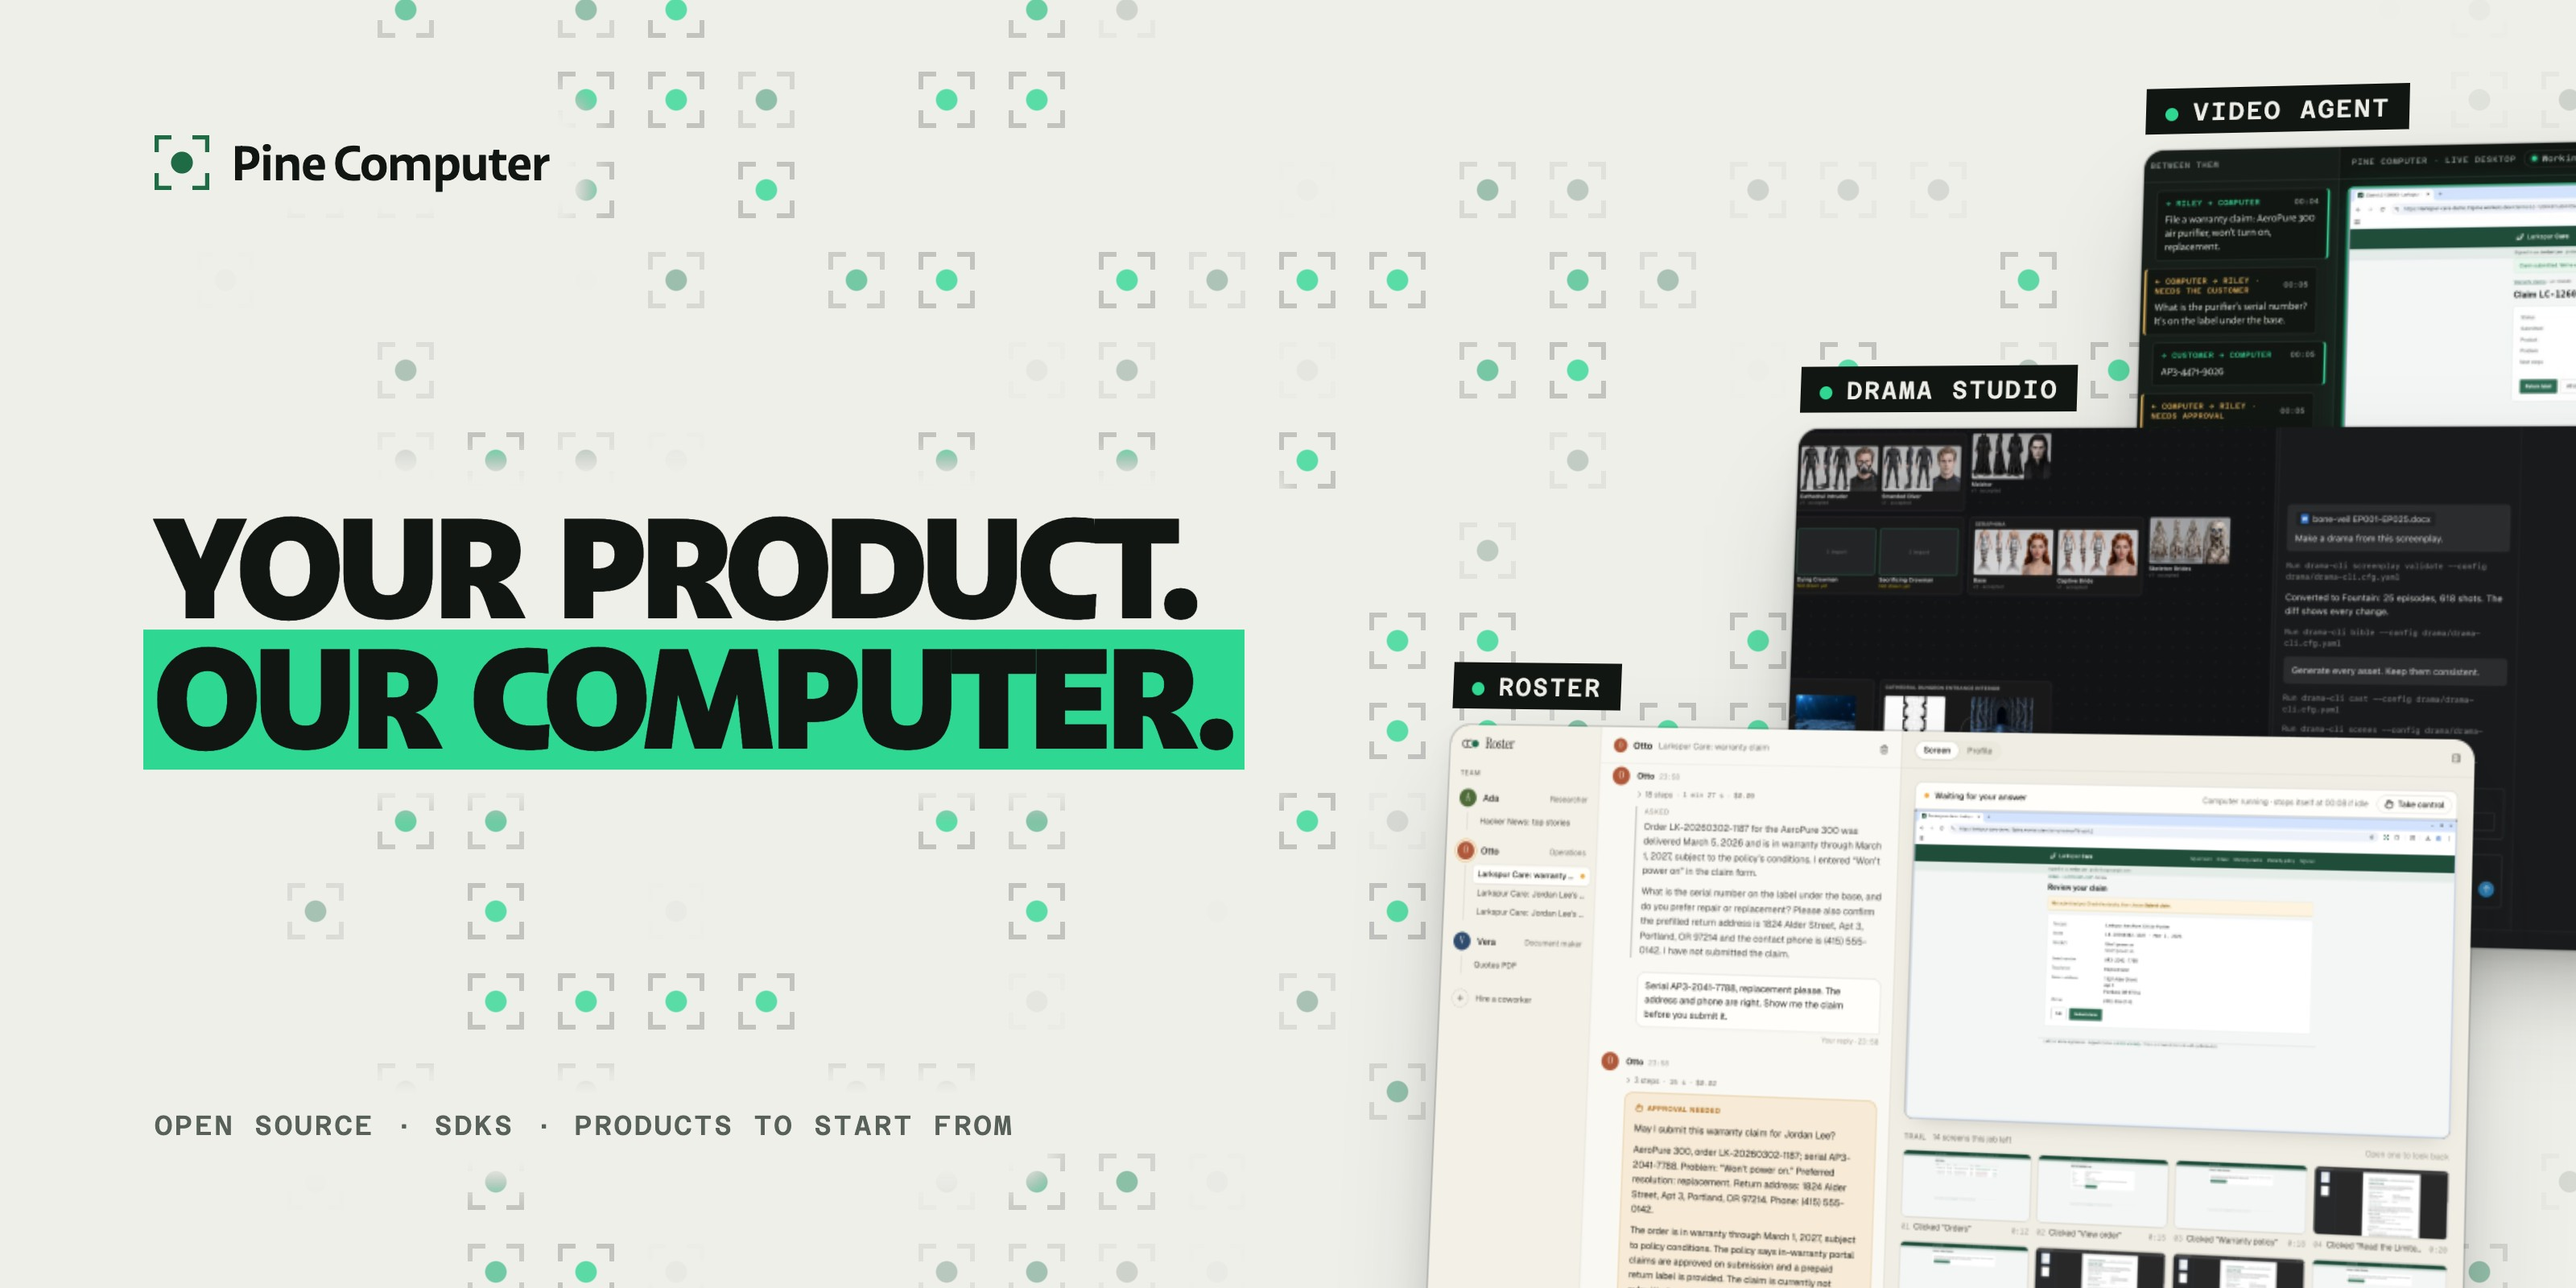
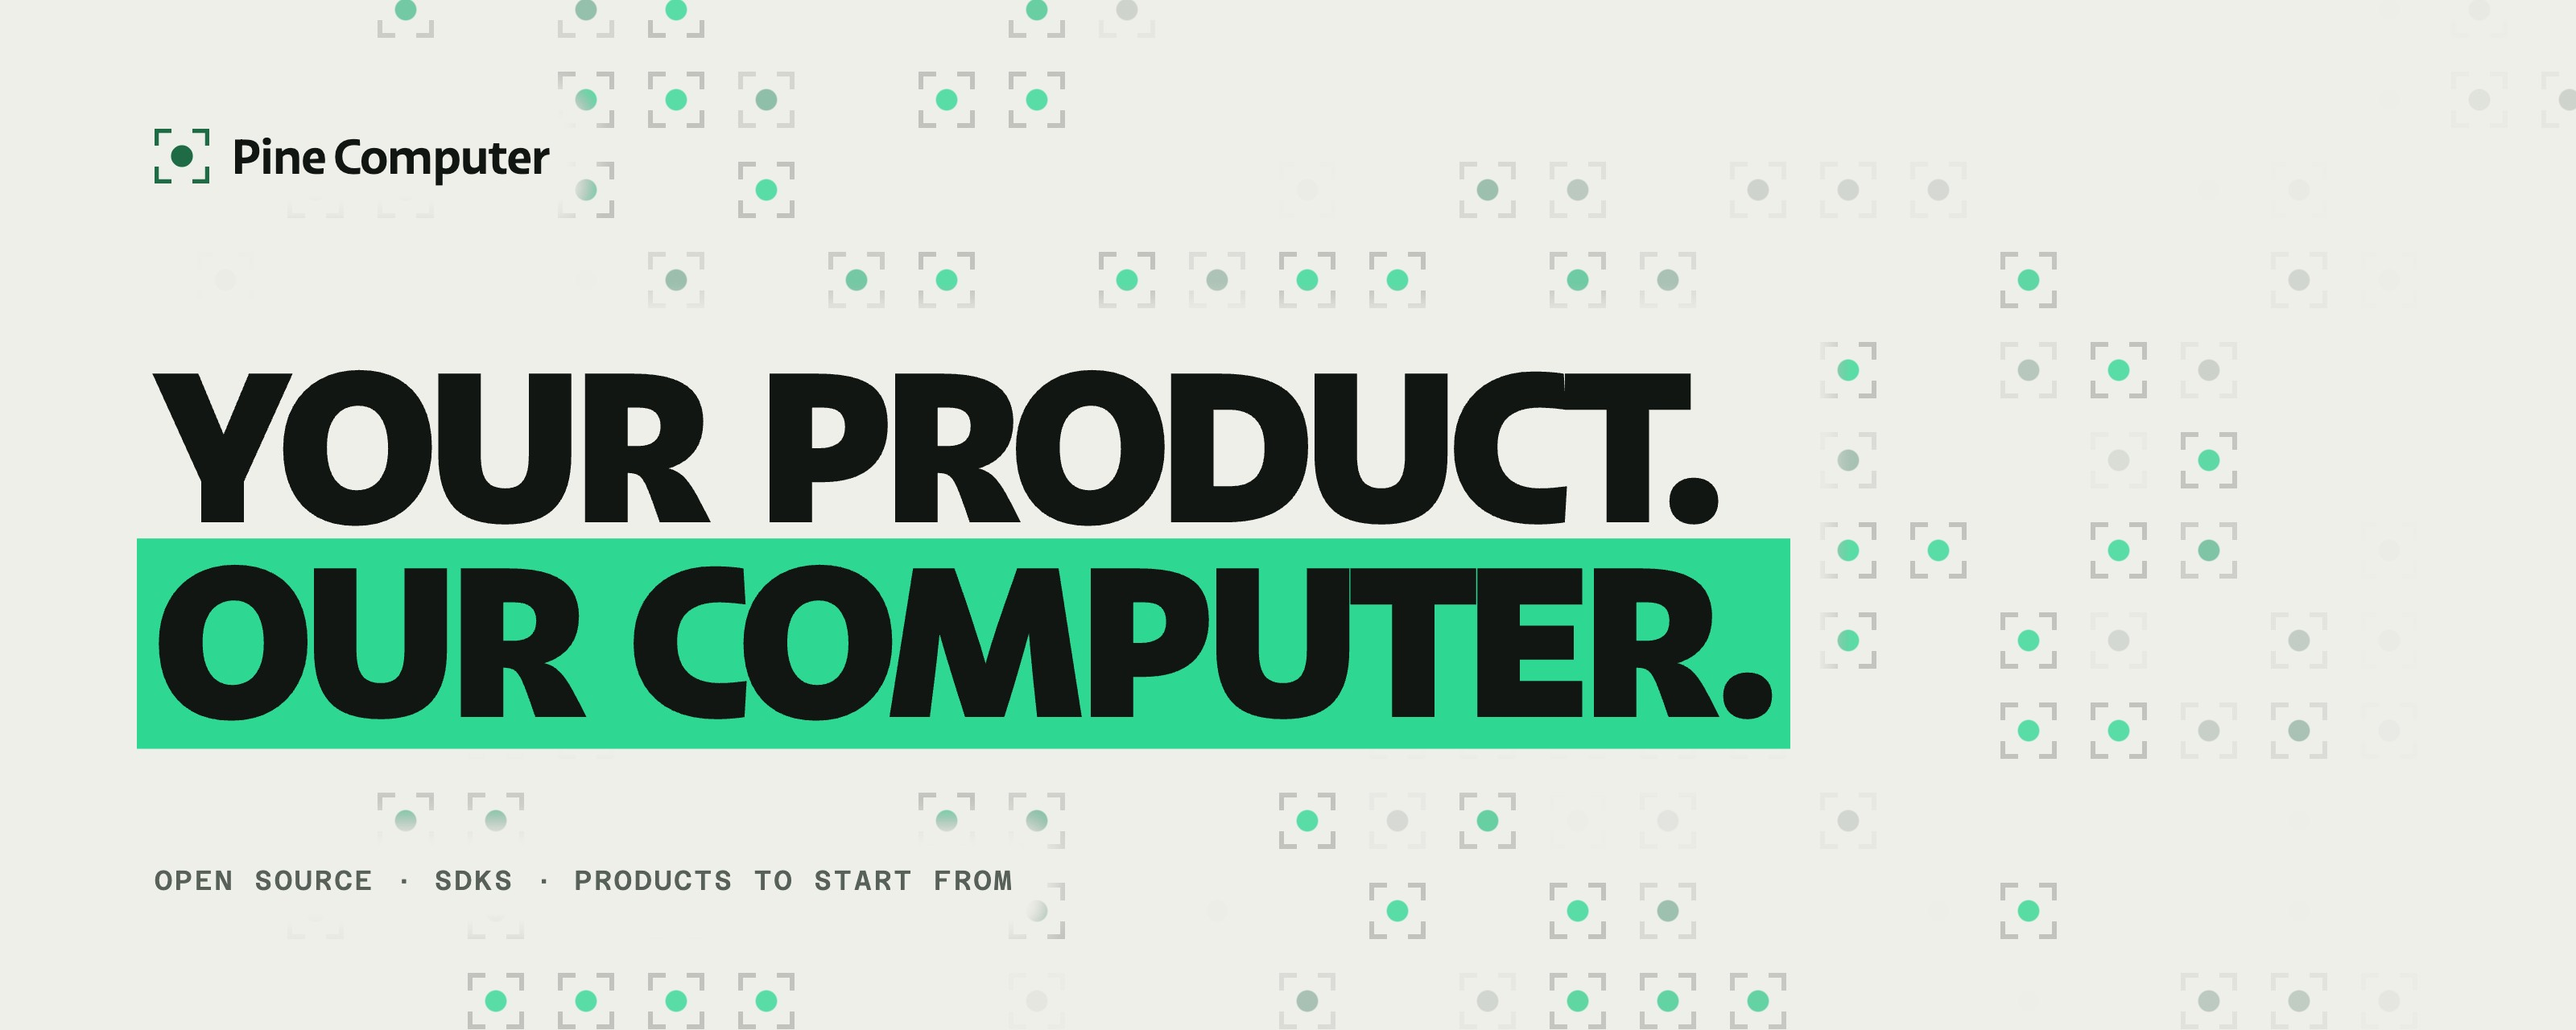
docs: simplify the cover and stop leading with the Tavus example
The cover of tilted product windows read as clutter. It is now the lockup and the line on the brand's field, like the X header. The video agent moves to the end of the products list and its still leaves the examples index, so no single example stands for the repository.

diff --git a/README.md b/README.md
@@ -33,7 +33,7 @@
 
 <p align="center">
   <a href="#built-on-pine-computer">
-    <img src="docs/brand/cover.jpg" alt="Your product. Our computer. Three products built on Pine Computer: Roster, Drama Studio and a video agent" width="100%">
+    <img src="docs/brand/cover.jpg" alt="Pine Computer. Your product. Our computer. Open source: SDKs and products to start from" width="100%">
   </a>
 </p>
 
@@ -157,7 +157,7 @@ repository works with the SDK's `0.3` line: `@pinesandbox/computer` 0.3.5 or new
 
 ## Built on Pine Computer
 
-A workspace of AI coworkers, a personal agent, a studio, a video agent that files the claim while it talks:
+A workspace of AI coworkers, a personal agent, a studio for short dramas, a video agent:
 each is a face on a computer, and the computer is the hard half. These are whole products with their own
 model, logic and interface, open source, on the same Computer. Clone one, rename it, ship it.
 
@@ -165,8 +165,8 @@ model, logic and interface, open source, on the same Computer. Clone one, rename
 | --- | --- |
 | [**Starter**](examples/starter/) | A complete product to rename and ship: sessions side by side, the work live, the controls, skills, a vault, files in and out, schedules. Start here. |
 | [**Roster**](examples/coworkers/) | A workspace of AI coworkers, each with a Computer of its own: give one a job in its thread, watch its screen beside the chat, approve when it asks. A coding agent had it working, from the starter, in 39 minutes, and a second pass of 43 gave it its look and its skills; [the log](examples/coworkers/docs/BUILD-LOG.md) has every step. |
-| [**Tavus video agent**](examples/tavus-video-agent/) | A video agent takes a customer's call and hands the claim to a Pine Computer, which files it while they talk. |
 | [**Drama Studio**](https://github.com/PineComputer/pine-drama-studio) | A desktop studio for AI short dramas: bring a screenplay, and an agent on a Pine Computer makes the drama with you, from characters and storyboards to takes and the cut. |
+| [**Tavus video agent**](examples/tavus-video-agent/) | A video agent takes a customer's call and hands the claim to a Pine Computer, which files it while they talk. |
 
 <p align="center">
   <img src="examples/coworkers/docs/approval.png" alt="Roster: three coworkers and their threads on the left; a conversation in which one asks whether it may submit a warranty claim, with Approve and Decline; and on the right its live desktop with the trail of screens the job left" width="100%">

diff --git a/examples/README.md b/examples/README.md
@@ -17,8 +17,6 @@ Built on the SDKs: the product creates a Computer, hands it a job, shows its scr
 
 ![The starter: the agent's work and answer on the left, the Computer's live screen on the right](starter/docs/screenshot.jpg)
 
-![The Tavus video agent, from a recorded call: the video agent on the left, every handoff in the middle, the Computer's desktop with the submitted claim on the right](tavus-video-agent/docs/film.jpg)
-
 ## In an agent workspace
 
 The Computer as a tool: the workspace's own agent stays in charge and hands over the computer work.
